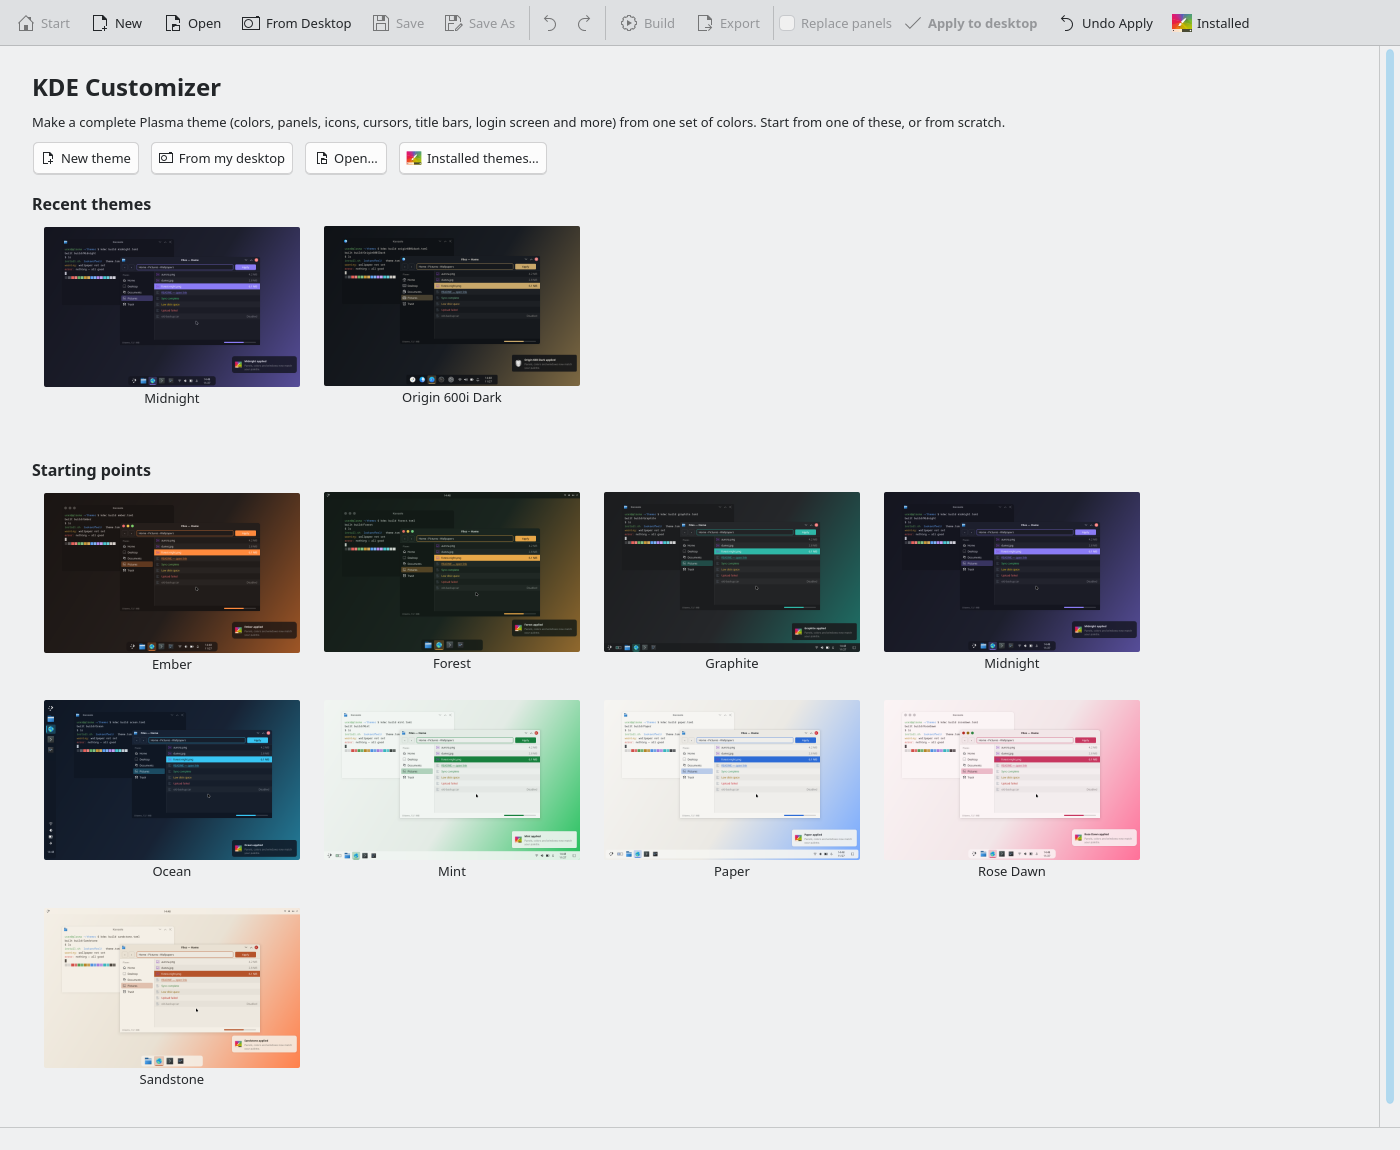
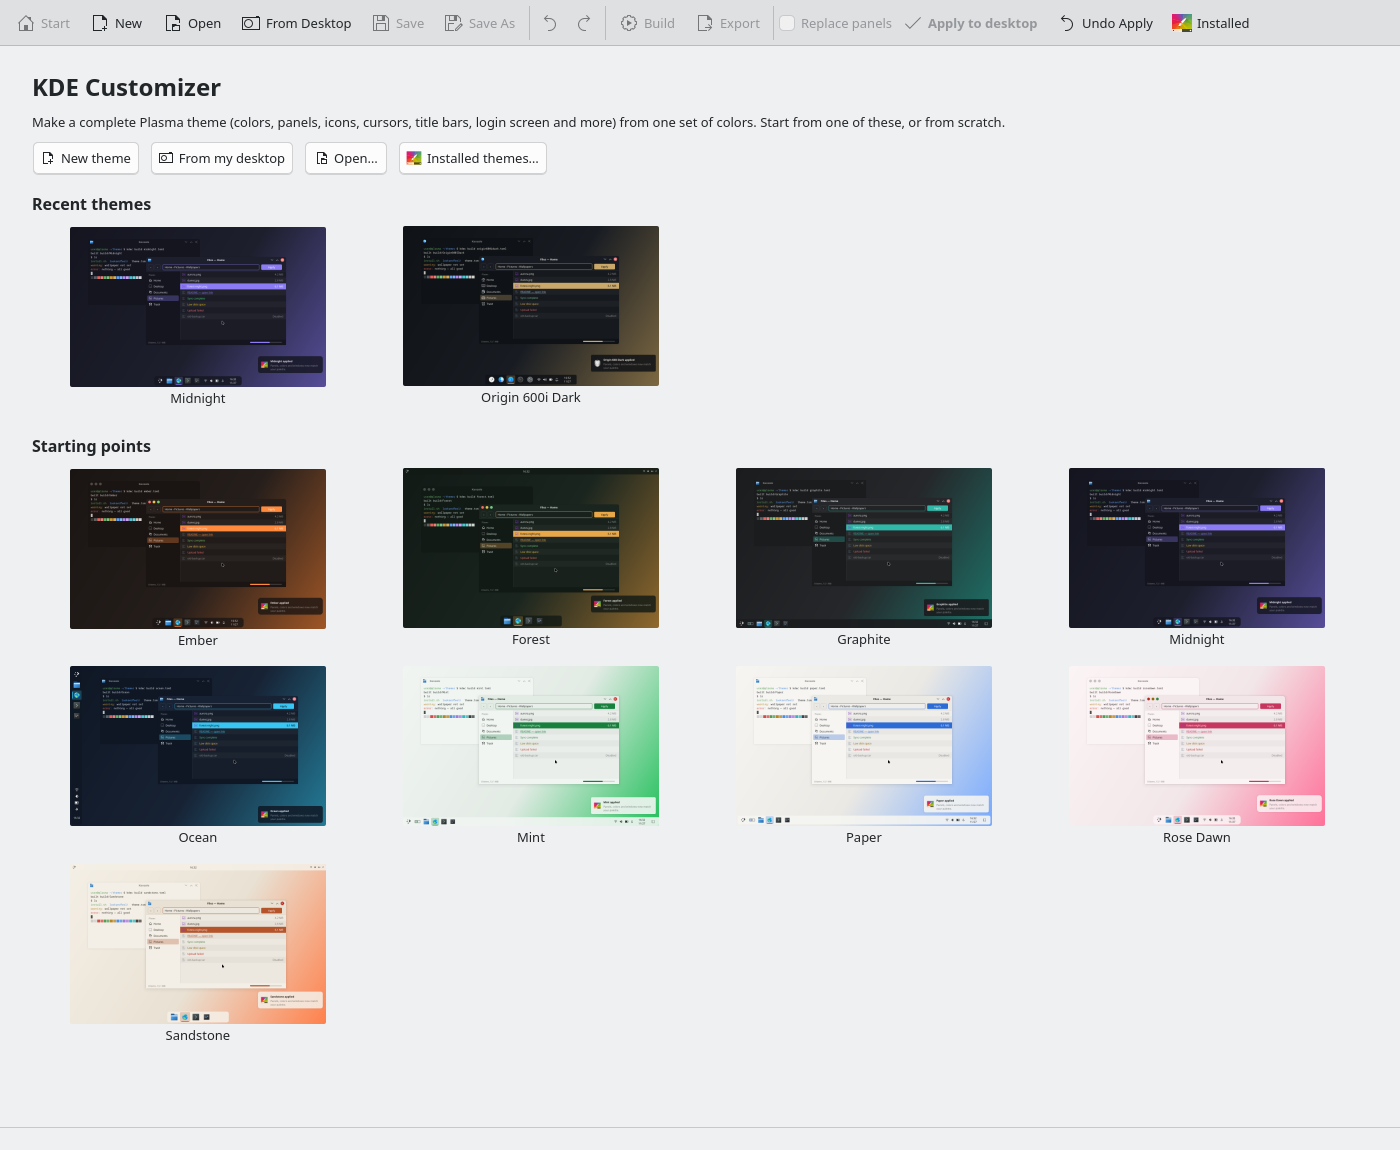
Start page: no gap under the recent row, no needless scrollbar, columns fill the width
Card rows reserved ~40 px more than a thumbnail and one line of name, which left
a gap under each grid and pushed a page that fits into scrolling. Rows are now
sized from the font, the last row has no trailing padding, and the columns are
spread over the full width (with a little slack so they don't wrap early).

diff --git a/src/kdecustomizer/gui/start.py b/src/kdecustomizer/gui/start.py
@@ -31,11 +31,13 @@ def thumbnail(path: Path, renderer: Preview) -> QPixmap:
 
 class Cards(QListWidget):
     """A wrapping grid of theme cards; each item's data is its spec path."""
+    MIN_CELL = THUMB.width() + 24
+
     def __init__(self):
         super().__init__()
         self.setViewMode(QListView.IconMode)
         self.setIconSize(THUMB)
-        self.setGridSize(QSize(THUMB.width() + 24, THUMB.height() + 48))
+        self.setGridSize(QSize(self.MIN_CELL, self.cell_height()))
         self.setResizeMode(QListView.Adjust)
         self.setMovement(QListView.Static)
         self.setWrapping(True)
@@ -45,14 +47,26 @@ class Cards(QListWidget):
         self.setHorizontalScrollBarPolicy(Qt.ScrollBarAlwaysOff)
         self.setStyleSheet("QListWidget { background: transparent; }")
 
+    def item_height(self) -> int:
+        """Thumbnail + one line of name + the view's item margins."""
+        return THUMB.height() + self.fontMetrics().lineSpacing() + 12
+
+    def cell_height(self) -> int:
+        return self.item_height() + 8
+
     def fit(self) -> None:
-        """Grow to show every row (the page scrolls, not each grid)."""
+        """Spread the columns over the full width and grow to show every row (the page scrolls, not each grid)."""
         if not self.count():
             self.setFixedHeight(0)
             return
-        per_row = max(1, self.viewport().width() // self.gridSize().width())
+        width = self.viewport().width() - 4         # cells that fill the width exactly wrap one too early
+        per_row = max(1, width // self.MIN_CELL)
+        cell = QSize(max(self.MIN_CELL, width // per_row), self.cell_height())
+        if cell != self.gridSize():
+            self.setGridSize(cell)
         rows = -(-self.count() // per_row)
-        self.setFixedHeight(rows * self.gridSize().height() + 8)
+        # the last row needs no gap below it
+        self.setFixedHeight(rows * cell.height() - (cell.height() - self.item_height()) + 2)
 
     def keyPressEvent(self, e) -> None:
         """Enter opens the selected card (clicks open too; itemActivated would fire twice with single-click)."""
@@ -168,7 +182,7 @@ class StartPage(QWidget):
             it.setData(Qt.UserRole, str(p))
             it.setToolTip(tip(p, t))
             it.setTextAlignment(Qt.AlignHCenter | Qt.AlignTop)
-            it.setSizeHint(QSize(THUMB.width() + 16, THUMB.height() + 40))   # thumbnails arrive later
+            it.setSizeHint(QSize(THUMB.width() + 16, grid.item_height()))   # thumbnails arrive later
             grid.addItem(it)
             self._todo.append(it)
         grid.fit()

diff --git a/tests/test_usability.py b/tests/test_usability.py
@@ -211,6 +211,29 @@ def test_start_page_refresh_before_thumbnails_finish(qapp, tmp_path, monkeypatch
 
 
 @gui
+def test_start_page_cards_fill_the_width_without_scrolling(qapp):
+    from PySide6.QtWidgets import QScrollArea
+    from kdecustomizer.gui.start import Cards, StartPage
+    library.add_recent(EXAMPLE)
+    page = StartPage()
+    page.resize(1400, 1100)
+    page.show()
+    for _ in range(40):
+        qapp.processEvents()
+    grid = page.starters
+    per_row = (grid.viewport().width() - 4) // Cards.MIN_CELL
+    first_row = [i for i in range(grid.count()) if grid.visualItemRect(grid.item(i)).top() ==
+                 grid.visualItemRect(grid.item(0)).top()]
+    assert len(first_row) == per_row                           # as many columns as fit, no early wrap
+    assert grid.gridSize().width() * per_row <= grid.viewport().width()
+    last = grid.visualItemRect(grid.item(grid.count() - 1))
+    assert last.bottom() <= grid.height() <= last.bottom() + 8  # no empty band under the last row
+    area = page.findChild(QScrollArea)
+    assert not area.verticalScrollBar().isVisible()            # everything fits: no scrollbar
+    page.close()
+
+
+@gui
 def test_problems_strip_and_undo_redo(blank, qapp):
     blank.load(EXAMPLE)
     blank._update_problems()
